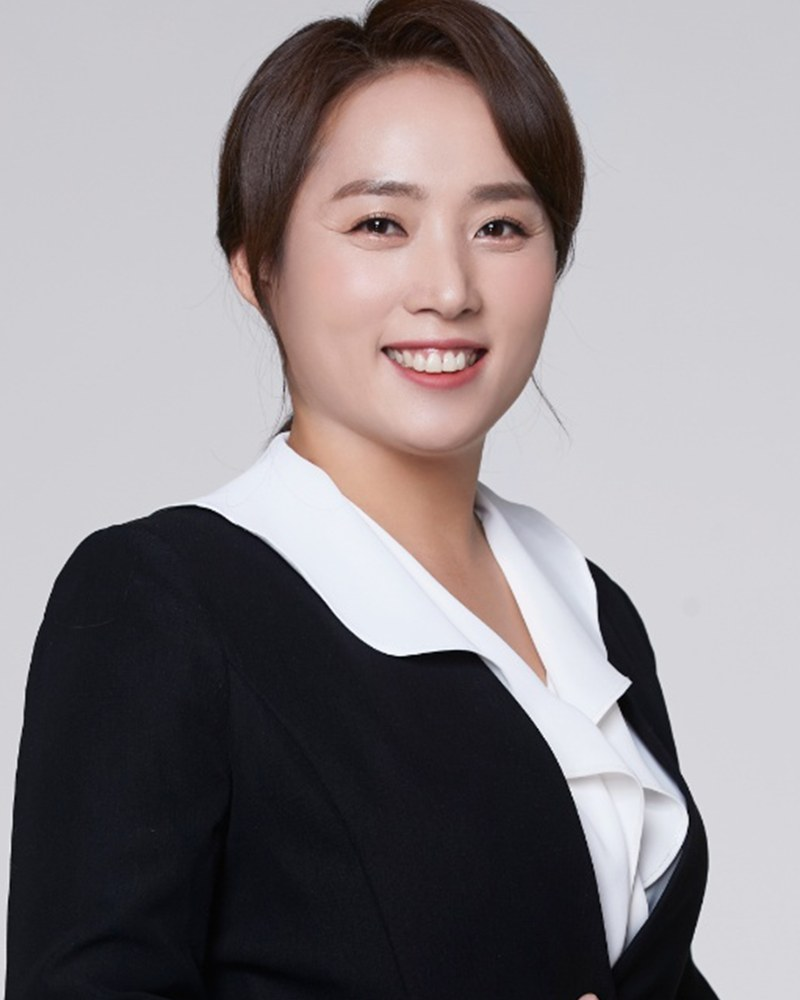
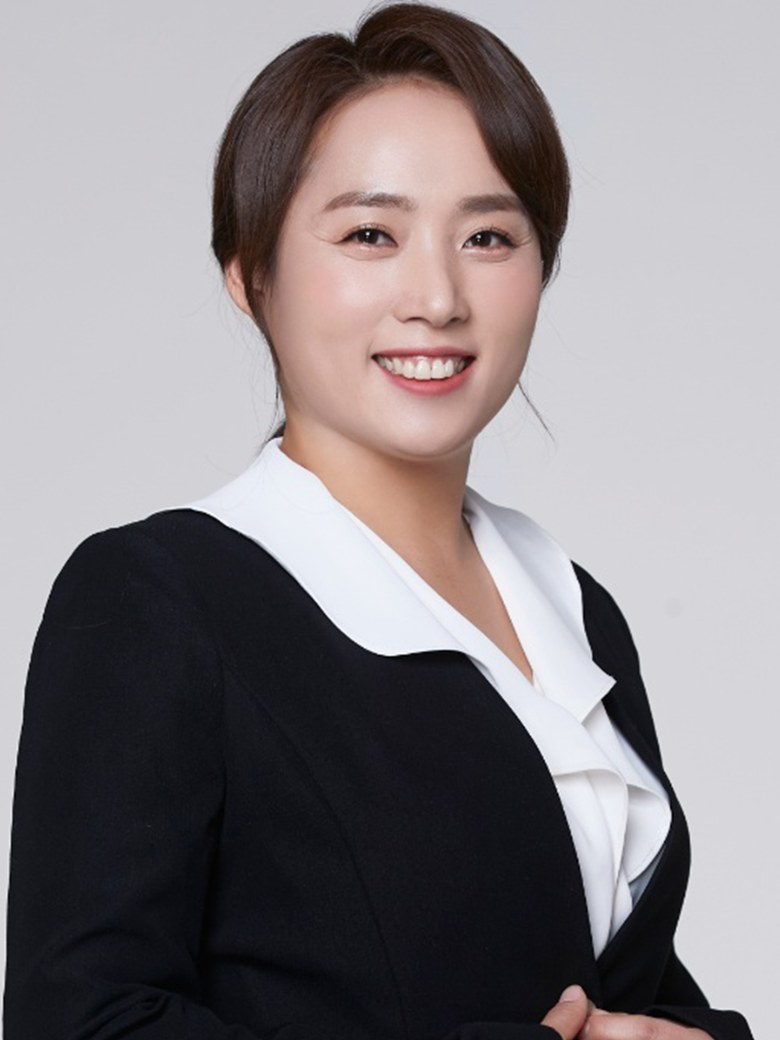
style: 멤버 사진 비율 4:5 → 3:4 (세로로 더 길게)
CSS aspect-ratio 3/4 + 사진 3:4 재크롭(상반신 더 노출).

diff --git a/index.html b/index.html
@@ -186,7 +186,7 @@ section.block{padding:88px 0;}
 }
 .member-card:hover{transform:translateY(-3px);box-shadow:0 14px 30px rgba(58,58,56,0.07);border-color:#EAD49A;}
 .member-card .photo{
-  width:100%;aspect-ratio:4/5;object-fit:cover;object-position:center top;
+  width:100%;aspect-ratio:3/4;object-fit:cover;object-position:center top;
   display:block;background:#ececec;
 }
 .member-info{padding:22px 22px 24px;display:flex;flex-direction:column;align-items:center;flex:1;}
